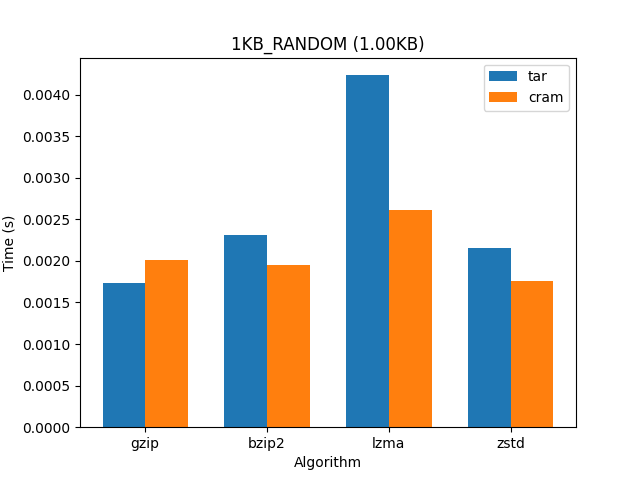
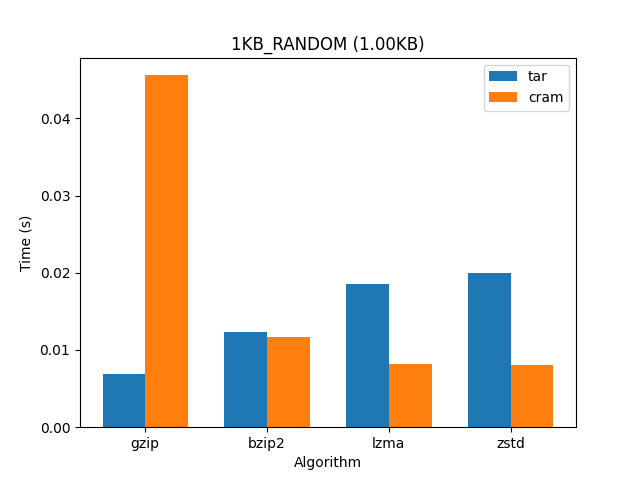
recompute benchmarks using binaries, for maximum reproducability

diff --git a/benchmark.py b/benchmark.py
@@ -48,14 +48,16 @@ def benchmark(command: str) -> tuple[float, int]: # (time, size)
 
     return statistics.fmean(times)
 
+EXECUTABLES = {
+    "gzip": "gzip",
+    "bzip2": "bzip2",
+    "lzma": "xz",
+    "zstd": "zstd",
+    "brotli": "brotli"
+}
+
 def tar(algorithm: str, file: str) -> tuple[float, int]:
-    EXECUTABLES = {
-        "gzip": "gzip",
-        "bzip2": "bzip2",
-        "lzma": "xz",
-        "zstd": "zstd",
-        "brotli": "brotli"
-    }
+
 
     # first, tar the file
     command_tar = f"tar -cf files/{file}.tar files/{file}"
@@ -67,8 +69,9 @@ def tar(algorithm: str, file: str) -> tuple[float, int]:
     return benchmark(f"{command_tar} && {command_comp} && rm files/{file}.tar*")
 
 def cram(algorithm: str, file: str) -> tuple[float, int]:
-    command_cram = f"target/debug/cram pack -c {algorithm} files/{file}"
-    return benchmark(command_cram)
+    command_cram = f"target/debug/cram pack files/{file}"
+    command_comp = f"{EXECUTABLES[algorithm]} files/{file}.cram"
+    return benchmark(f"{command_cram} && {command_comp} && rm files/{file}.cram*")
 
 ALGORITHMS = ["gzip", "bzip2", "lzma", "zstd"]
 FILES = ["1KB_RANDOM", "1MB_RANDOM", "10MB_RANDOM", "mintext", "os", "xz"]
